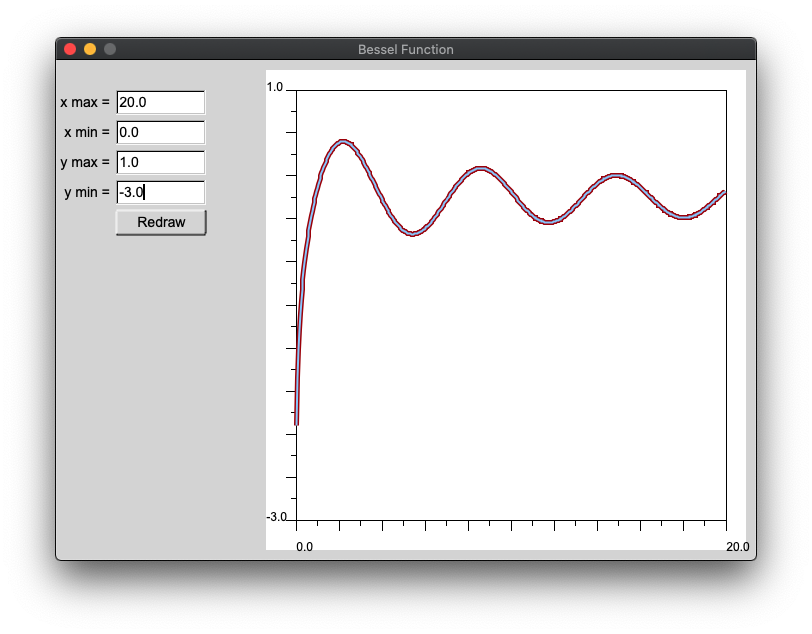
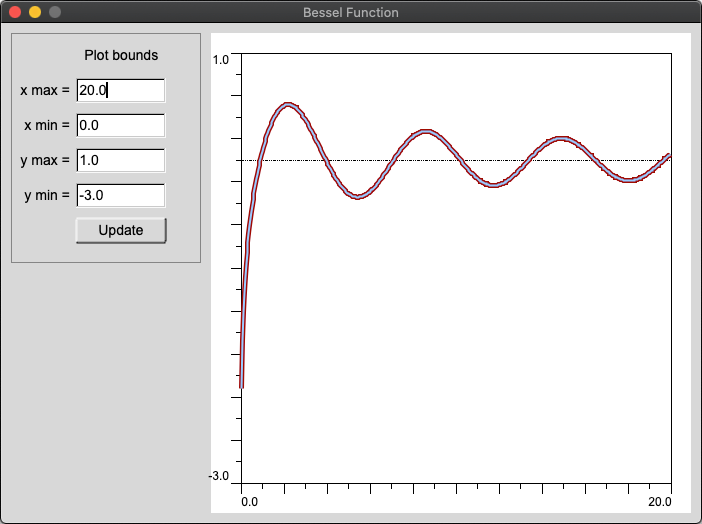
[BesselGraph] Update Bessel Graph demo
Fix alignment of plot range labels
Add origin axes
Use dynamic vectors with data about functions

diff --git a/BesselGraph/src/plot_widget.rs b/BesselGraph/src/plot_widget.rs
@@ -6,16 +6,15 @@ use fltk::{
     widget_extends
 };
 
-use crate::bessel_func;
-
-use std::cell::Ref;
 use std::cell::RefCell;
 use std::rc::Rc;
 
-struct Point {
+pub struct Point {
     x: f64,
     y: f64,
 }
+
+pub type PlotPoints = Vec<Point>;
 
 struct Tick {
     begin: Point,
@@ -30,25 +29,44 @@ pub struct Area {
     pub ymax: f64,
 }
 
-pub struct PlotWidget {
-    inner: widget::Widget,
-    area: Rc<RefCell<Area>>
+type PlotFunction = fn(f64) -> f64;
+
+
+#[derive(Clone)]
+pub struct PlotFunctionInfo {
+    pub f: PlotFunction,
+    pub color: enums::Color,
+    pub name: String
 }
 
-fn calc_points(points: &mut Vec<Point>, point_count: i32, area: Ref<Area>, f: fn(f64) -> f64) {
-    let px: f64 = (area.xmax - area.xmin) / (point_count as f64);
-    for i in 0..point_count+1 {
-        let xc: f64 = area.xmin + px * (i as f64);
-        points.push(Point{ x: xc, y: f(xc) });
+impl PlotFunctionInfo {
+    pub fn calc_points(&self, point_count: i32, area: &Area) -> PlotPoints {
+        let mut points: PlotPoints = Vec::new();
+        points.reserve((point_count + 1) as usize);
+        let px: f64 = (area.xmax - area.xmin) / (point_count as f64);
+        for i in 0..point_count+1 {
+            let xc: f64 = area.xmin + px * (i as f64);
+            points.push(Point{ x: xc, y: (self.f)(xc) });
+        }
+        points
     }
+}
+
+pub struct PlotWidget {
+    inner: widget::Widget,
+    area: Rc<RefCell<Area>>,
+    plots: Rc<RefCell<Vec<PlotFunctionInfo>>>
 }
 
 impl PlotWidget {
     pub fn new(x: i32, y: i32, width: i32, height: i32) -> Self {
         let mut inner = widget::Widget::default().with_pos(x, y).with_size(width, height);
 
-        let area = Rc::from(RefCell::from(Area{ xmin: 0.0, xmax: 20.0, ymin: -3.0, ymax: 1.0}));
-        let area_val = area.clone();
+        let area = Area{ xmin: -1.0, xmax: 1.0, ymin: -1.0, ymax: 1.0 };
+        let area = Rc::from(RefCell::from(area));
+
+        let plots: Vec<PlotFunctionInfo> = Vec::new();
+        let plots = Rc::from(RefCell::from(plots));
 
         const MARGIN: i32 = 20;
         const TICK_SIZE: i32 = 10;
@@ -56,25 +74,17 @@ impl PlotWidget {
         let point_count: i32 = 500;
         let tick_count: i32 = 20;
 
-        let bg_color = enums::Color::White;
-        let bounds_color = enums::Color::Black;
-        let ticks_color = enums::Color::Black;
+        const BG_COLOR: enums::Color = enums::Color::White;
+        const BOUNDS_COLOR: enums::Color = enums::Color::Black;
+        const TICKS_COLOR: enums::Color = enums::Color::Black;
+        const AXES_COLOR: enums::Color = enums::Color::Black;
 
-        let plot_color_1 = enums::Color::from_rgb(0xa0, 0, 0);
-        let plot_color_2 = enums::Color::from_rgb(0x99, 0xcc, 0xff);
-        
-        let plot_width_1 = 5;
-        let plot_width_2 = 2;
+        let area_val = area.clone();
+        let plots_val = plots.clone();
 
         inner.draw(move |i| {
             let area = area_val.borrow();
-
-            // Calculate plot points
-            let mut point_vec_1: Vec<Point> = Vec::new();
-            calc_points(&mut point_vec_1, point_count, area_val.borrow(), bessel_func::y0_1);
-
-            let mut point_vec_2: Vec<Point> = Vec::new();
-            calc_points(&mut point_vec_2, point_count, area_val.borrow(), bessel_func::y0_2);
+            let plots = plots_val.borrow();
 
             // Calculate pixel scale
             let scale_x: f64 = (area.xmax - area.xmin) / ((i.w() - MARGIN * 2 - TICK_SIZE) as f64);
@@ -115,10 +125,10 @@ impl PlotWidget {
             draw::set_line_style(draw::LineStyle::Solid, 1);
 
             // Clean draw area with backgorund color
-            draw::draw_rect_fill(i.x(), i.y(), i.w(), i.h(), bg_color);
+            draw::draw_rect_fill(i.x(), i.y(), i.w(), i.h(), BG_COLOR);
 
             // Draw bounding box
-            draw::set_draw_color(bounds_color);
+            draw::set_draw_color(BOUNDS_COLOR);
             draw::draw_loop3(
                 get_coord(area.xmin, area.ymin),
                 get_coord(area.xmax, area.ymin),
@@ -126,8 +136,27 @@ impl PlotWidget {
                 get_coord(area.xmin, area.ymax)
             );
 
+            // Draw origin axes (if visible)
+            const AXIS_X: f64 = 0.0;
+            const AXIS_Y: f64 = 0.0;
+            draw::set_draw_color(AXES_COLOR);
+            draw::set_line_style(draw::LineStyle::DashDotDot, 1);
+            
+            if (area.xmin<AXIS_X && AXIS_X<area.xmax) {
+                draw::draw_line(
+                    get_x(AXIS_X), get_y(area.ymin),
+                    get_x(AXIS_X), get_y(area.ymax));
+            }
+
+            if (area.ymin<AXIS_Y && AXIS_Y<area.ymax) {
+                draw::draw_line(
+                    get_x(area.xmin), get_y(AXIS_Y),
+                    get_x(area.xmax), get_y(AXIS_Y));
+            }
+
             // Draw ticks
-            draw::set_draw_color(ticks_color);
+            draw::set_draw_color(TICKS_COLOR);
+            draw::set_line_style(draw::LineStyle::Solid, 1);
 
             for t in &ticks_x {
                 draw::draw_line(
@@ -142,49 +171,52 @@ impl PlotWidget {
             }
 
             // Draw ranges
-            draw::set_draw_color(bounds_color);
+            draw::set_draw_color(BOUNDS_COLOR);
             draw::set_font(enums::Font::Helvetica, 12);
 
             let xmin_str = format!("{:.1}", area.xmin);
-            draw::draw_text(&xmin_str,
+            draw::draw_text2(&xmin_str,
                 get_x(area.xmin),
-                get_y(area.ymin - scale_y * ((MARGIN + TICK_SIZE) as f64)));
+                get_y(area.ymin - scale_y * (TICK_SIZE as f64 * 1.25)),
+                0, 0, enums::Align::TopLeft);
 
             let xmax_str = format!("{:.1}", area.xmax);
-            draw::draw_text(&xmax_str,
+            draw::draw_text2(&xmax_str,
                 get_x(area.xmax),
-                get_y(area.ymin - scale_y * ((MARGIN + TICK_SIZE) as f64)));
+                get_y(area.ymin - scale_y * (TICK_SIZE as f64 * 1.25)),
+                0, 0, enums::Align::TopRight);
 
             let ymin_str = format!("{:.1}", area.ymin);
-            draw::draw_text(&ymin_str,
-                get_x(area.xmin - scale_x * (MARGIN + TICK_SIZE) as f64),
-                get_y(area.ymin));
+            draw::draw_text2(&ymin_str,
+                get_x(area.xmin - scale_x * (TICK_SIZE as f64 * 1.25)),
+                get_y(area.ymin),
+                0, 0, enums::Align::BottomRight);
 
             let ymax_str = format!("{:.1}", area.ymax);
-            draw::draw_text(&ymax_str,
-                get_x(area.xmin - scale_x * (MARGIN + TICK_SIZE) as f64),
-                get_y(area.ymax));
+            draw::draw_text2(&ymax_str,
+                get_x(area.xmin - scale_x * (TICK_SIZE as f64 * 1.25)),
+                get_y(area.ymax),
+                0, 0, enums::Align::TopRight);
 
             // Draw plots
-            draw::set_draw_color(plot_color_1);
-            draw::set_line_style(draw::LineStyle::Solid, plot_width_1);
-            draw::begin_line();
-            for c in &point_vec_1 {
-                if c.x>area.xmin && c.x<area.xmax && c.y>area.ymin && c.y<area.ymax {
-                    draw::vertex(get_x(c.x) as f64, get_y(c.y) as f64);
-                }
-            }
-            draw::end_line();
+            let mut width: i32 = (plots.len() * 3 - 1) as i32; // Width of the lower-most plot
+            for p in plots.iter() {
+                draw::set_draw_color(p.color);
+                draw::set_line_style(draw::LineStyle::Solid, width);
+                draw::begin_line();
 
-            draw::set_draw_color(plot_color_2);
-            draw::set_line_style(draw::LineStyle::Solid, plot_width_2);
-            draw::begin_line();
-            for c in &point_vec_2 {
-                if c.x>area.xmin && c.x<area.xmax && c.y>area.ymin && c.y<area.ymax {
-                    draw::vertex(get_x(c.x) as f64, get_y(c.y) as f64);
+                // Calculate plot points
+                let point_vec = p.calc_points(point_count, &area);
+                for c in &point_vec {
+                    if c.x>area.xmin && c.x<area.xmax && c.y>area.ymin && c.y<area.ymax {
+                        draw::vertex(get_x(c.x) as f64, get_y(c.y) as f64);
+                    }
                 }
+
+                width -= 3; // Decrease width of plots lines as it goes to the top
+
+                draw::end_line();
             }
-            draw::end_line();
         });
 
         inner.handle(move |_i, ev| match ev {
@@ -193,12 +225,17 @@ impl PlotWidget {
 
         Self {
             inner,
-            area
+            area,
+            plots
         }
     }
 
     pub fn set_area(&mut self, new_area: Area) {
         *self.area.borrow_mut() = new_area;
+    }
+
+    pub fn add_plot(&mut self, new_plot: &PlotFunctionInfo) {
+        &self.plots.borrow_mut().push(new_plot.clone());
     }
 
 }

diff --git a/BesselGraph/src/main.rs b/BesselGraph/src/main.rs
@@ -1,5 +1,6 @@
 mod bessel_func;
 mod plot_widget;
+use plot_widget::{Area, PlotWidget, PlotFunctionInfo};
 
 use fltk::{*, prelude::*};
 
@@ -7,6 +8,21 @@ const WIDTH: i32 = 700;
 const HEIGHT: i32 = 500;
 
 fn main() {
+    let plots: Vec<PlotFunctionInfo> = [
+        PlotFunctionInfo{
+            f: bessel_func::y0_1,
+            color: enums::Color::from_u32(0xa00000),
+            name: "Integration".to_string()
+        },
+        PlotFunctionInfo{
+            f: bessel_func::y0_2,
+            color: enums::Color::from_u32(0x99ccff),
+            name: "Infinite series".to_string()
+        },
+    ].to_vec();
+
+    let default_area = Area{ xmin: 0.0, xmax: 20.0, ymin: -3.0, ymax: 1.0 };
+
     let a = app::App::default();
     app::get_system_colors();
 
@@ -14,31 +30,50 @@ fn main() {
         .with_size(WIDTH, HEIGHT)
         .with_label("Bessel Function");
 
+    let mut bounds_frame = frame::Frame::default()
+        .with_size(190, 230).with_pos(10, 10);
+    bounds_frame.set_frame(enums::FrameType::BorderFrame);
+    bounds_frame.set_color(enums::Color::Dark3);
+
+    let bounds_frame_title = frame::Frame::default()
+        .with_size(90, 25).with_pos(bounds_frame.x()+65, bounds_frame.y()+10)
+        .with_label("Plot bounds");
+
     let mut in_max_x = input::FloatInput::default()
-        .with_size(90, 25).with_pos(60, 30)
+        .with_size(90, 25).below_of(&bounds_frame_title, 10)
         .with_label("x max = ");
-    in_max_x.set_value("20.0");
+    let xmax_str = format!("{:.1}", default_area.xmax);
+    in_max_x.set_value(&xmax_str);
 
     let mut in_min_x = input::FloatInput::default()
         .with_size(90, 25).below_of(&in_max_x, 10)
         .with_label("x min = ");
-    in_min_x.set_value("0.0");
+    let xmin_str = format!("{:.1}", default_area.xmin);
+    in_min_x.set_value(&xmin_str);
 
     let mut in_max_y = input::FloatInput::default()
         .with_size(90, 25).below_of(&in_min_x, 10)
         .with_label("y max = ");
-    in_max_y.set_value("1.0");
+    let ymax_str = format!("{:.1}", default_area.ymax);
+    in_max_y.set_value(&ymax_str);
 
     let mut in_min_y = input::FloatInput::default()
         .with_size(90, 25).below_of(&in_max_y, 10)
         .with_label("y min = ");
-    in_min_y.set_value("-3.0");
+    let ymin_str = format!("{:.1}", default_area.ymin);
+    in_min_y.set_value(&ymin_str);
 
-    let mut plot = plot_widget::PlotWidget::new(210, 10, HEIGHT - 20, HEIGHT - 20);
+    let mut plot = PlotWidget::new(210, 10, HEIGHT - 20, HEIGHT - 20);
+    plot.set_area(default_area);
+
+    for p in &plots {
+        plot.add_plot(p);
+    }
 
     let mut btn_redraw = button::Button::default()
         .with_size(90, 25).below_of(&in_min_y, 10)
-        .with_label("Redraw");
+        .with_label("Update");
+
     btn_redraw.set_callback(move |_b| {
         let max_x: f64 = in_max_x.value().parse::<f64>().expect("Not a number!");
         let min_x: f64 = in_min_x.value().parse::<f64>().expect("Not a number!");
